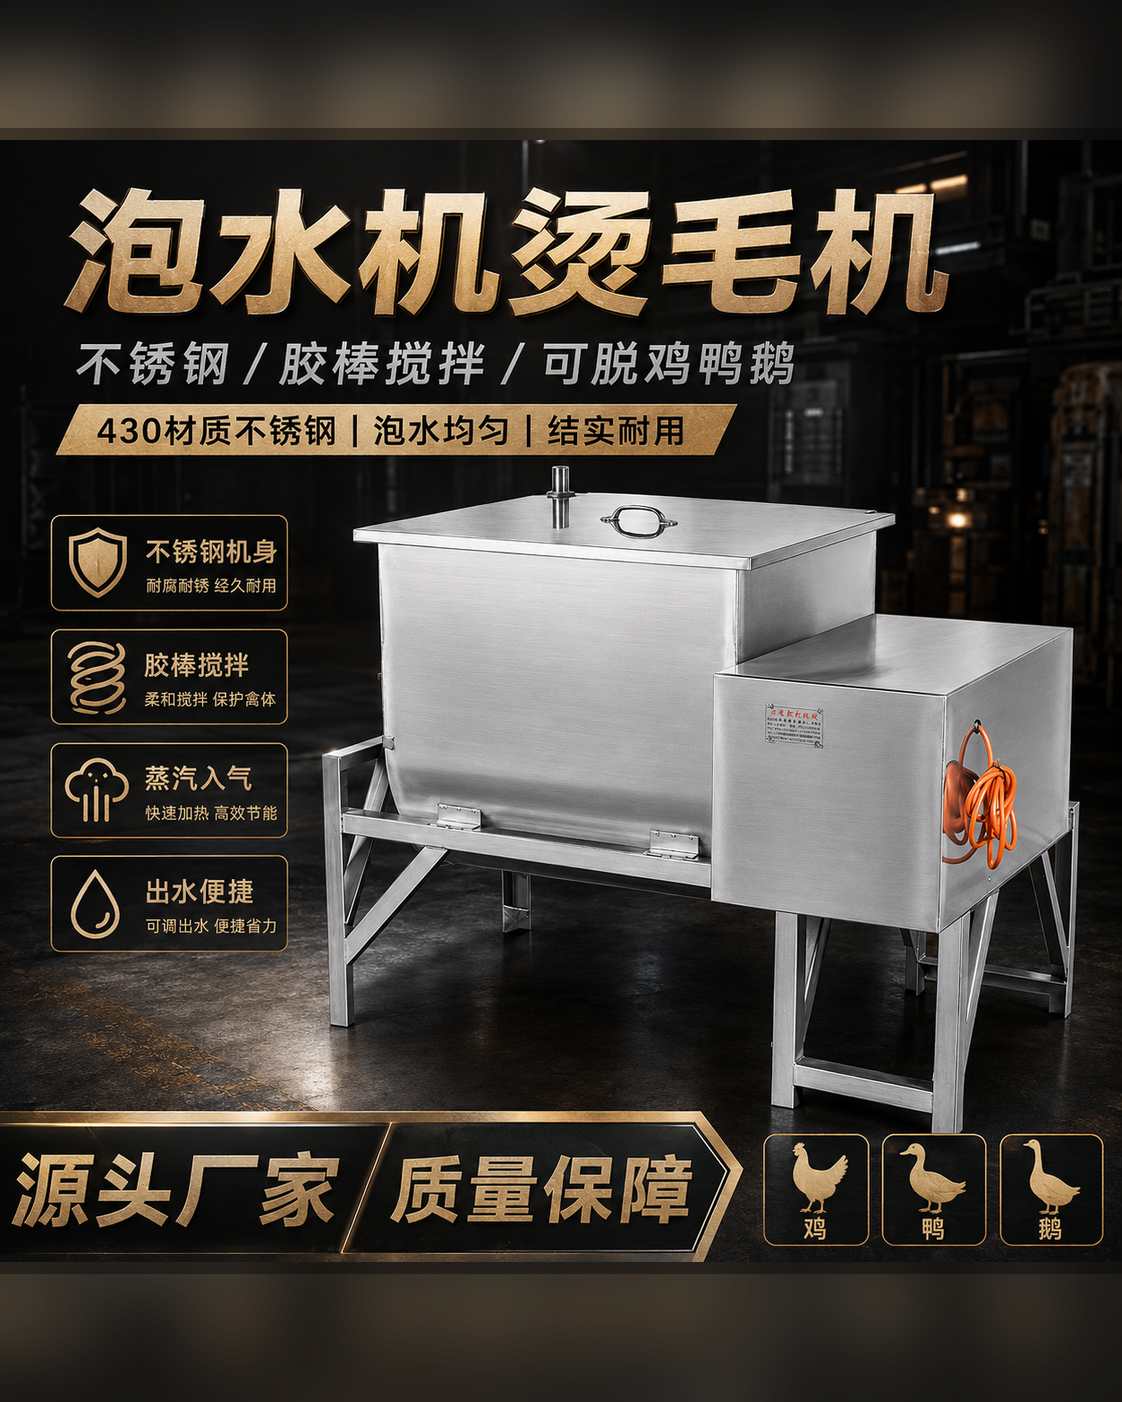
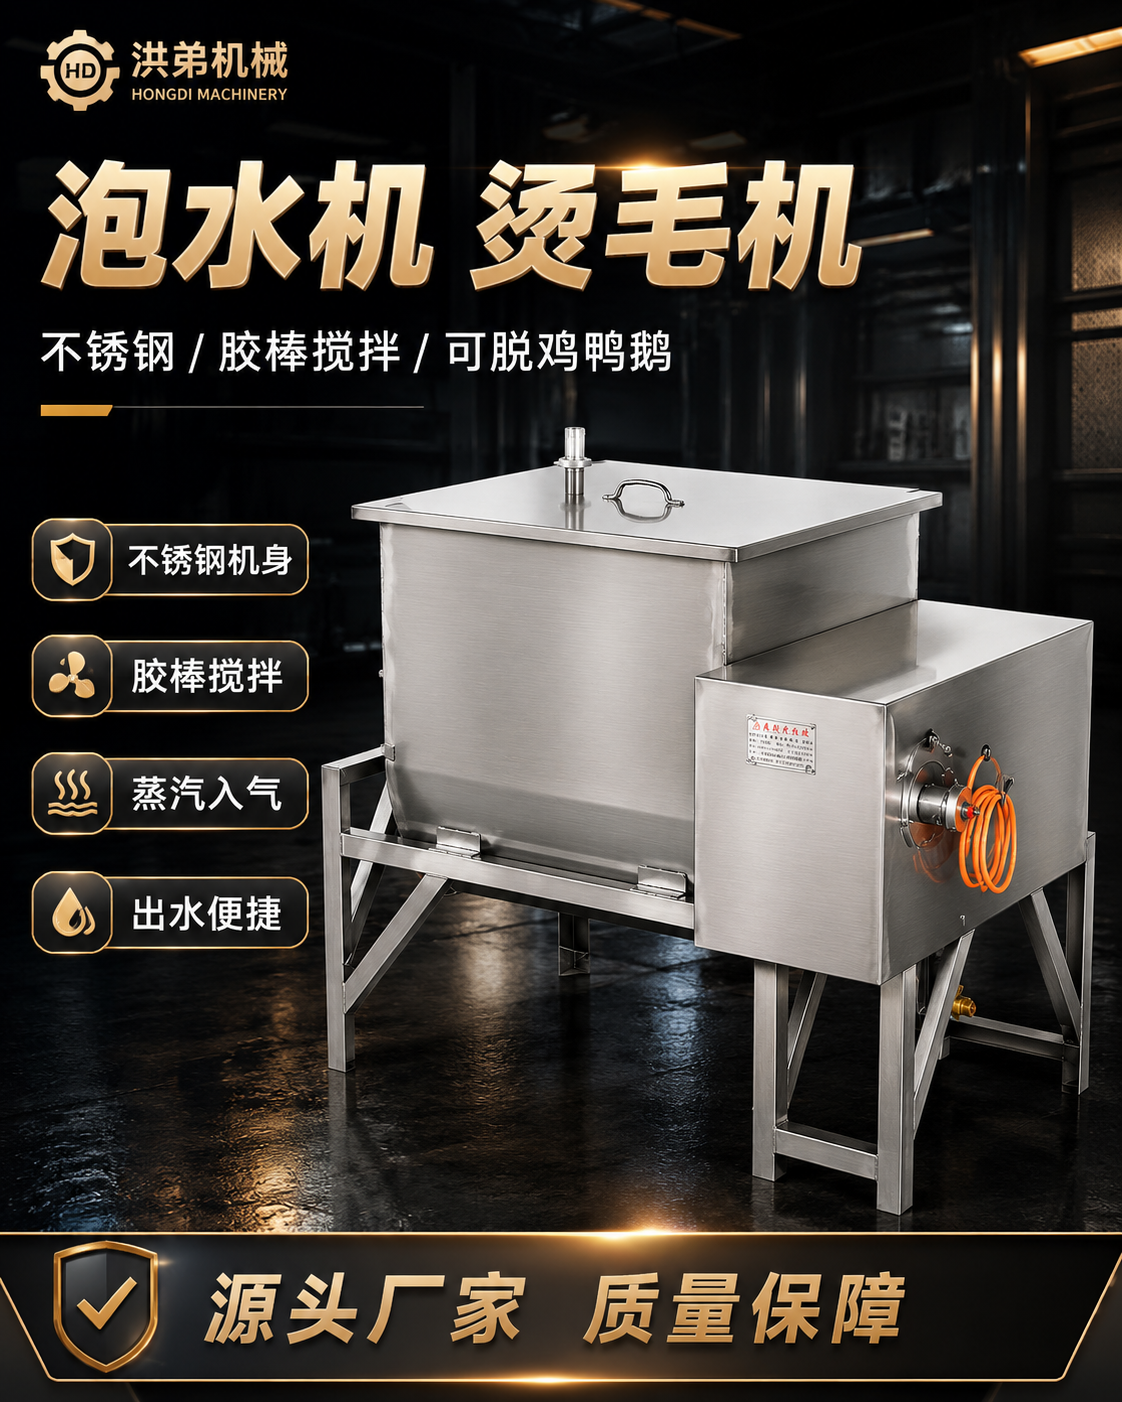
更新产品图片资源

diff --git a/MEMORY.md b/MEMORY.md
@@ -138,3 +138,8 @@
 - 产品详情页首屏右侧信息区应直接展示技术参数，减少右侧空白，让采购者在看产品图时同步看到规格、功率、电压、重量、产量等核心判断信息；下方不再重复展示同一组技术参数。
 - 解决方案详情页的“推荐设备与分工”表格，设备列应把产品 slug 映射为客户可读的产品名称，中文页不能直接暴露 `58-type-poultry-plucker` 等英文文件名。
 - “鱼糜丸类 / 肉丸加工”不再作为当前官网解决方案主线展示；相关解决方案从 active solutions 移出，分类入口、关联链接、sitemap 和 llms.txt 同步清理。
+
+## 2026-06-29 产品图片同步
+
+- 用户更新 `produce/` 下的产品图和详情图后，网站资源仍同步覆盖到 `public/images/products/new-2026/`，保持内容 Markdown 中的英文图片路径不变；这样首页、产品中心和产品详情页会统一更新。
+- 本次 `produce/` 共对应 11 款产品、22 张图片，目标资源尺寸均为 `1122x1402`；复制后只有内容实际变化的图片会进入 Git 变更。
